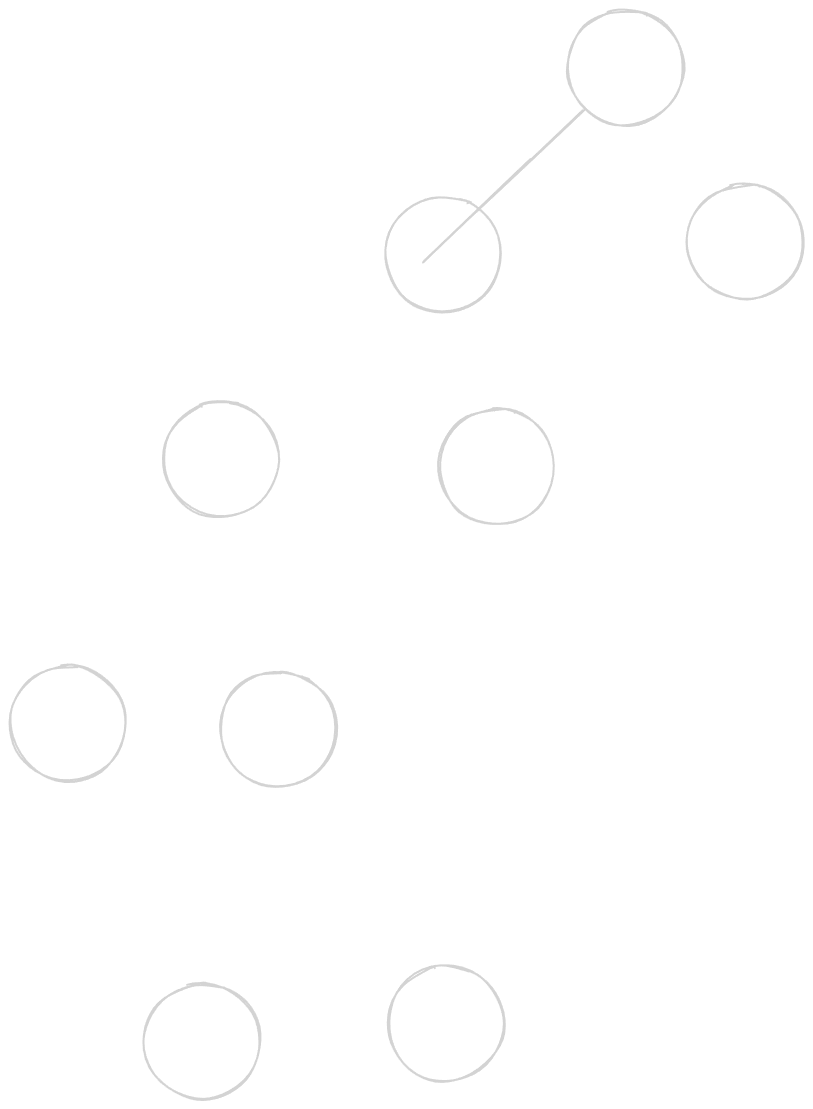
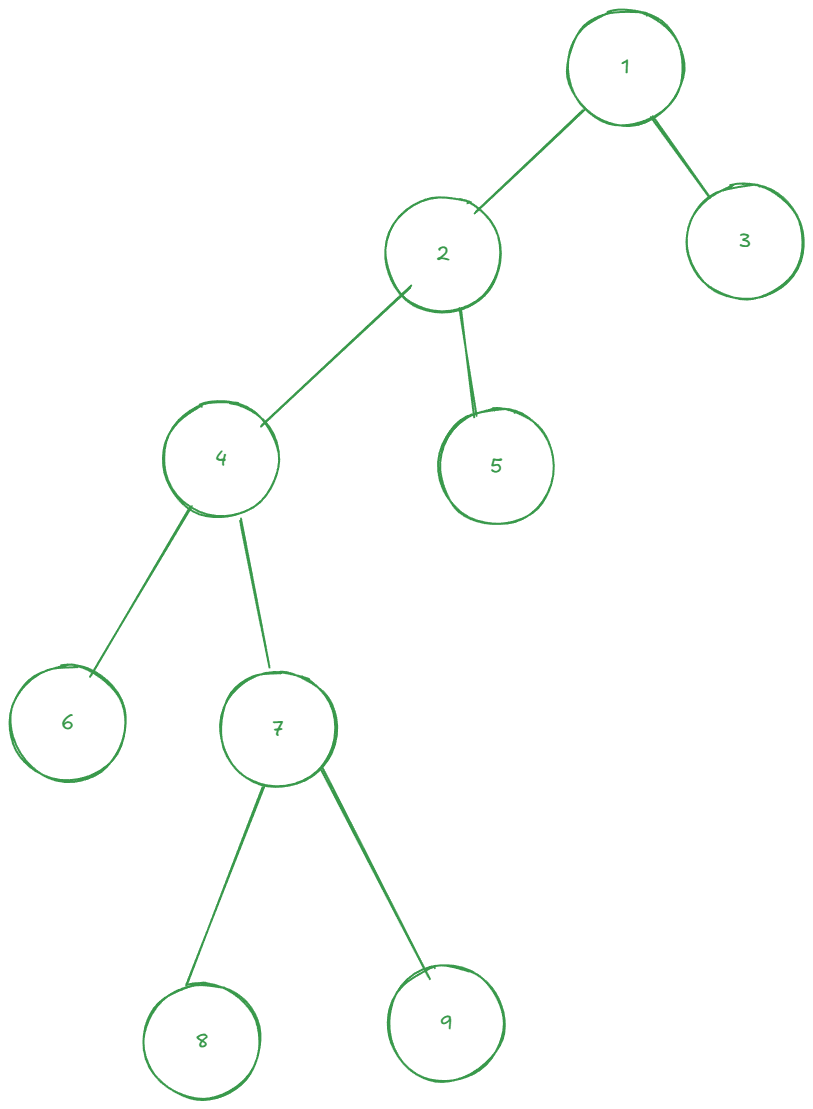
vault backup: 2026-03-16 10:10:02

diff --git a/Excalidraw/Drawing 2026-03-16 10.03.37.excalidraw.md b/Excalidraw/Drawing 2026-03-16 10.03.37.excalidraw.md
@@ -10,47 +10,109 @@ tags: [excalidraw]
 # Excalidraw Data
 
 ## Text Elements
+1 ^7vFbz7Zj
+
+2 ^LG1XyHc7
+
+3 ^h0wl9C9v
+
+4 ^A4bLaomV
+
+5 ^MxmbhAUe
+
+6 ^Be5zYXWx
+
+7 ^q0NxN8XL
+
+8 ^bNhW8yax
+
+9 ^0eL8OR55
+
 %%
 ## Drawing
 ```compressed-json
[1 lines of base64/hex data omitted]
 
[2 lines of base64/hex data omitted]
 
[2 lines of base64/hex data omitted]
 
[2 lines of base64/hex data omitted]
 
[2 lines of base64/hex data omitted]
 
[2 lines of base64/hex data omitted]
 
[2 lines of base64/hex data omitted]
 
[2 lines of base64/hex data omitted]
 
[2 lines of base64/hex data omitted]
 
[2 lines of base64/hex data omitted]
 
[2 lines of base64/hex data omitted]
 
[2 lines of base64/hex data omitted]
 
[2 lines of base64/hex data omitted]
 
[2 lines of base64/hex data omitted]
 
[2 lines of base64/hex data omitted]
 
[2 lines of base64/hex data omitted]
 
[2 lines of base64/hex data omitted]
 
[2 lines of base64/hex data omitted]
 
[2 lines of base64/hex data omitted]
 
[2 lines of base64/hex data omitted]
+
[1 lines of base64/hex data omitted]
+
[1 lines of base64/hex data omitted]
+
[1 lines of base64/hex data omitted]
+
[1 lines of base64/hex data omitted]
+
[1 lines of base64/hex data omitted]
+
[1 lines of base64/hex data omitted]
+
[1 lines of base64/hex data omitted]
+
[1 lines of base64/hex data omitted]
+
[1 lines of base64/hex data omitted]
+
[1 lines of base64/hex data omitted]
+
[1 lines of base64/hex data omitted]
+
[1 lines of base64/hex data omitted]
+
[1 lines of base64/hex data omitted]
+
[1 lines of base64/hex data omitted]
+
[1 lines of base64/hex data omitted]
+
[1 lines of base64/hex data omitted]
+
[1 lines of base64/hex data omitted]
+
[1 lines of base64/hex data omitted]
+
[1 lines of base64/hex data omitted]
+
[1 lines of base64/hex data omitted]
+
[1 lines of base64/hex data omitted]
+
+QKqpFaHPwUeEkQTQVVbKvlVsIpljgZgLitLiwwiIrQbIEICIUTcsKwQZMPeCzBAA
 ```
 %%
